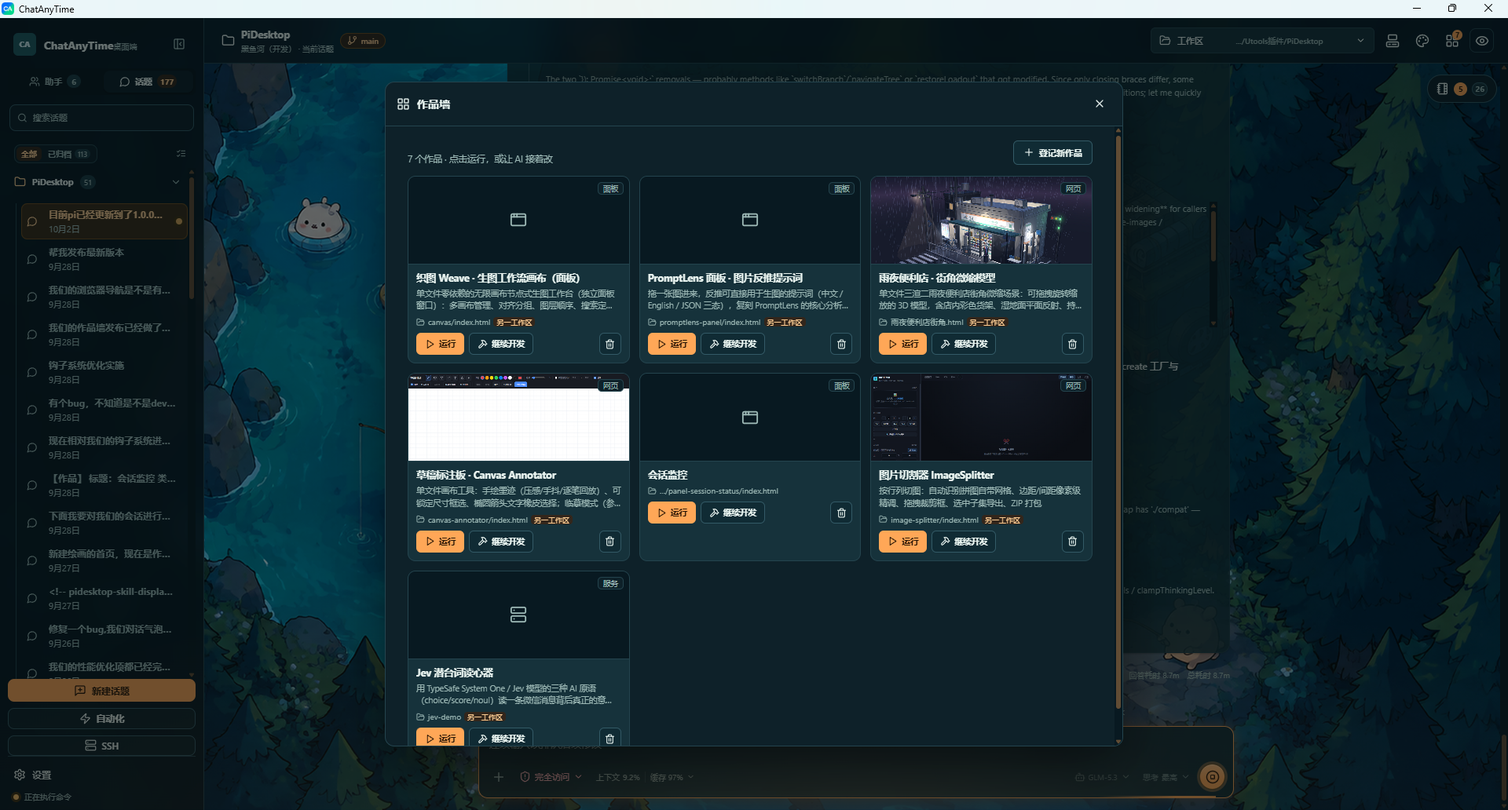
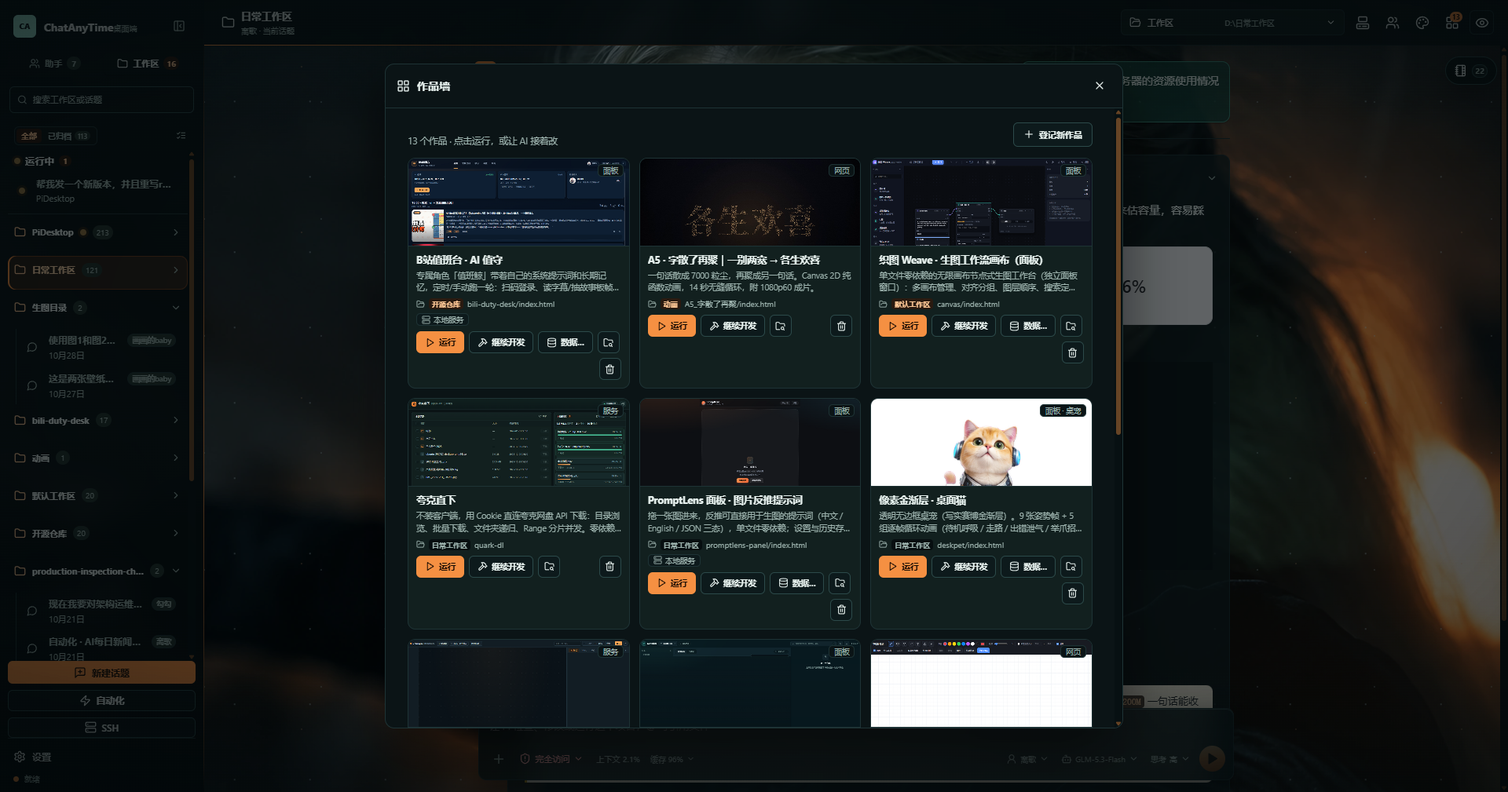
docs(readme): 重写 README 并换成 1.12.0 真机截图
- 结构重排：首屏主图 → 界面预览 → 快速开始 → 当前能力 → 架构 → 鉴权/权限 → 数据 → 主题 → 限制
- 事实校正：Pi 运行时 1.4.0、Electron 43、React 19；补工作区优先、运行中分区、Ctrl+K 两段式
  检索、团队/设计模式、电脑控制、Div 气泡视频与音频、作品封面、面板作品固定 origin 与数据
- 截图：用电脑控制操作正在运行的 dev 实例实拍五张（主界面 / 作品墙 / 能力管理 / 主题与外观 /
  SSH 远程），SSH 截图里的来源 IP 已做遮罩

diff --git a/README.md b/README.md
@@ -1,159 +1,181 @@
 # ChatAnyTime
 
-ChatAnyTime 是一个面向项目开发的桌面 AI 客户端。它以 Pi 的执行、会话和工具能力为底座，重新实现桌面交互，并延续 ChatAnyTime 的富内容渲染理念。
-<img width="1426" height="913" alt="image" src="https://github.com/user-attachments/assets/133b8181-4581-4807-be4f-769f7da0b379" />
+[![Release](https://img.shields.io/github/v/release/LuckyLXX/chat-anytime?label=release&color=f59042)](https://github.com/LuckyLXX/chat-anytime/releases/latest)
+[![Platform](https://img.shields.io/badge/platform-Windows%20x64-5f6b7a)](#安装)
+[![License](https://img.shields.io/github/license/LuckyLXX/chat-anytime?color=3f9a6b)](LICENSE)
+
+ChatAnyTime 是一个面向项目开发的桌面 AI 客户端。它以 Pi 的 Agent 运行时（模型、会话、工具、上下文管理）为底座，重新实现桌面交互，围绕「读代码 → 改文件 → 跑命令 → 验证 → 记录」这条真实开发回路设计界面：工具调用逐条可见、可中断，改动有 Diff 与回滚，做出来的成果能沉淀成作品或定时任务。
+
+![主界面](images/main-interface.png)
+
+> 侧栏按工作区组织话题，顶部「运行中」跨工作区汇总正在执行的会话；中间是带工具时间线与可交互卡片的对话；右侧可停靠预览面板（内置浏览器 / 终端 / SSH / 文件）。截图使用自定义主题「霜焰」，应用内可在 10 套内置预设与自己的 CSS 之间切换。
 
 ## 界面预览
 
-| SSH 远程面板 | 作品墙 |
+| 作品墙 | 能力管理 |
 | --- | --- |
-| ![SSH](images/ssh-connections.png) | ![作品墙](images/gallery-wall.png) |
-| 主机/分组管理 + 指纹信任、远端 PTY 终端、远端文件面板（SFTP 上传/下载） | AI 做出来的成果登记成「作品」，`file` / `server` / `panel` 三种形态，面板型作品可脱离主窗口常驻 |
+| ![作品墙](images/gallery-wall.png) | ![MCP 与技能](images/settings-capabilities.png) |
+| AI 做出来的成果登记成作品：`file` / `server` / `panel` 三种形态，每个作品都有封面，可一键运行或让 AI 接着改 | MCP 服务器（stdio / HTTP、OAuth、热生效）与技能清单；子智能体、命令、钩子与长期记忆也在同一处管理 |
+
+| 主题与外观 | SSH 远程 |
+| --- | --- |
+| ![主题与外观](images/appearance-themes.png) | ![SSH](images/ssh-connections.png) |
+| 明暗双模式语义变量、10 套预设、实时预览；也可导入整份 CSS 或主题目录（壁纸与字体随目录走） | 主机与分组、指纹信任、远端 PTY 终端，以及同一区域的远端文件面板（上传 / 下载 / 进度 / 取消） |
+
+## 快速开始
+
+### 安装
+
+从 [Releases](https://github.com/LuckyLXX/chat-anytime/releases/latest) 下载 `ChatAnyTime Setup <版本>.exe`（Windows x64），双击安装即可。
+
+- 建议先确认系统装有 **VC++ 2015-2022 x64 Redistributable**：缺它时终端、剪贴板相关功能会提示缺少 `VCRUNTIME140.dll`
+- 安装包由 GitHub Actions 在打 tag 时构建：干净 `npm ci` → `npm test` → `electron-builder` → 静态校验（`verify-package`），全绿才上传 Release
+- 尚无自动更新与代码签名，升级请手动下载新版本覆盖安装；用户数据在 `%APPDATA%\chat-anytime`，覆盖安装不受影响
+
+### 从源码运行
+
+需要 Node.js `>= 22.19.0`（Electron 43 自带的运行时满足 Pi 的要求）。
+
+```bash
+npm install
+npm run dev
+```
+
+测试与构建：
+
+```bash
+npm test        # vitest（约 280 个文件 / 3100+ 用例）
+npm run build   # 两套 tsc --noEmit + electron-vite build
+```
+
+打包（也可以交给 CI）：
+
+```bash
+npm run package:win         # dist/win-unpacked/ChatAnyTime.exe（需整目录一起分发）
+npm run package:installer   # dist/ChatAnyTime Setup <版本>.exe
+```
 
 ## 当前能力
 
-### 会话与工作区
+### 工作区与话题
 
-- 每个助手记住自己最后使用的工作区，另有「默认工作区」兜底，切助手/移除工作区都不会掉进空白页
-- 多会话并行：切走的会话在后台继续跑，侧栏以四色状态点提示「运行中 / 已完成 / 失败 / 已中止」，回到会话即清零
-- 话题管理：置顶、重命名、软归档（「全部 / 已归档」双屏）+ 多选批量归档/恢复/删除
-- 分屏：最多 4 格，每格有自己的输入框、草稿、模型与思考级别，拖动分隔条调比例，会话右键即可分屏
-- 轮次缩略导航与长会话窗口化：长对话只渲染视口附近的内容，滚动与切换仍然跟手
+- **工作区优先**：侧栏以工作区为主轴组织话题；每个助手记住自己最后用的工作区，另有「默认工作区」兜底，目录被删/移走的会话只读并在列表里标注
+- **运行中分区**：分组默认折叠，正在执行的会话会跨工作区汇总到侧栏顶部（分组标题另有运行点、侧栏按钮带计数），点一下就切过去
+- 多会话并行：切走的会话在后台继续跑，侧栏四色状态点提示「运行中 / 已完成 / 失败 / 已中止」，回到会话即清零
+- 话题管理：置顶、重命名、软归档（「全部 / 已归档」双屏）+ 多选批量归档 / 恢复 / 删除
+- 分屏：最多 4 格，每格独立的输入框、草稿、模型、思考级别与权限，拖动分隔条调比例
+- 命令面板（`Ctrl+K`）：搜索动作与最近工作区；输入任意文字后，列表最后一行的「搜索会话内容」进入两段式全文检索，回车直接定位到那条消息
+- 长会话：轮次缩略导航 + 视口窗口化渲染；输入框随内容自增高（到 240px 后改为内部滚动）
 
 ### 模型与 Agent
 
 - 配置多个 OpenAI 兼容中转站，拉取上游模型列表，并可逐个覆盖「是否支持图片输入」
 - 输入区快捷切换模型与思考级别；状态行实时显示上下文占用与流式 `~N tok/s`
 - Agent 角色：人格与系统提示词、技能勾选、内建工具开关；会话与长期记忆均按助手隔离
-- 子代理：`delegate_agent` 单层委派，内置「代码审查 / 项目探索 / 通用」三类角色（前两者只读），可自定义（系统提示/模型/工具集），执行过程在侧栏以嵌套事件流呈现
-- 图片识别兜底：对话模型不支持图片输入时，附件自动交给指定的多模态模型识别，模型也可以用 `recognize_images` 读工作区里的图片文件
+- 子代理：`delegate_agent` 单层委派，内置「代码审查 / 项目探索 / 通用」三类角色（前两者只读，通用可用内置浏览器验证页面），也可自定义系统提示、模型、思考等级与工具集；执行过程在侧栏以嵌套事件流呈现
+- 团队模式：给会话配上常驻成员，成员之间可以互发消息、共享任务板，顶栏进入团队看板与编队图
+- 设计模式：对话旁展开画布工作台，AI 用 `design_*` 工具维护设计文档（`.design.json`）并导出 HTML
+- 图片识别兜底：对话模型不支持图片输入时，附件自动交给指定的多模态模型识别；模型也能用 `recognize_images` 读工作区里的图片文件
 
 ### 工具与执行
 
-- Pi 原生工具（`read` / `bash` / `edit` / `write` / `grep` / `find` / `ls`，另有可选开启的 Windows 原生 `powershell`），全程流式展示参数、输出与文件 Diff
+- Pi 原生工具（`read` / `bash` / `edit` / `write` / `grep` / `find` / `ls`，另有可选开启的 Windows 原生 `powershell`），参数、输出与文件 Diff 全程流式展示
 - 可中断执行：任务面板里能单独停掉某条 shell 命令，进程树被清理但本轮回复继续
-- 代码模式（codemode）：一次调用里写一段沙箱脚本批量调用其它工具（并行读多文件、批量统计、大输出预筛），脚本内的工具调用同样走权限与审计
+- 代码模式（codemode）：一次调用里写一段沙箱脚本批量调用其它工具（并行读多文件、批量统计、大输出预筛），脚本内的工具调用同样走权限与审计；MCP 服务器的工具可选「直连 / 脚本」两种暴露方式，脚本模式不占每轮前缀
 - 权限四档：只读 / 每次询问 / 工作区访问 / 完全访问；「本会话允许」按 `工具:风险` 组合记忆，不会让普通写入授权顺带放开工作区外写入
-- 计划模式：先出计划、经你审批后实施，批准的计划留档 `docs/plans/`，也可以直接移交给新会话执行
+- 计划模式：先出计划、经你审批后实施，批准的计划留档 `docs/plans/`，也可以整体移交给新会话执行
 - Checkpoint 回滚：AI 每次写文件前即时快照，交付物行内一键恢复到回复前状态
-- 任务清单：`todo_write` 整表替换维护清单，右上角任务面板随会话切换，只读实时展示
+- 任务清单：`todo_write` 整表替换维护清单，右上角任务面板随会话切换、只读实时展示
+- 电脑控制：`computer_*` 枚举本机窗口、后台截图、点击（带命中与前台校验）与键盘输入，可以操作其它桌面应用
+- 自动化任务：cron 周期或一次性延时触发，可投递回当前会话、也可在后台新会话执行；任务可指定工作区，运行记录可回看
 
 ### 富内容与预览
 
 - 流式 Markdown / GFM / 代码高亮 / KaTeX / Mermaid，思考过程与工具调用分轮折叠
-- DIV 气泡：助手可以输出可交互的 HTML 卡片，在聊天窗口内直接渲染
-- HTML/SVG Artifact 在隔离 iframe 中预览；Markdown 预览带文档大纲、多标签与全屏
-- 附件：回形针、粘贴、拖拽添加图片或工作区文件；回复可一键分享为长图
+- 代码高亮认语言标注（`language-x` / `hljs-x` / 裸类名等，含别名归一），完全没标注时只做零误判兜底（`$ ` 提示符、`PS C:\`、可 `JSON.parse`、`@@` diff 等），散文与日志保持纯文本
+- **Div 气泡**：助手可以整条回答输出一页 HTML 卡片，在聊天窗口内直接渲染——按钮、Canvas、计时器、折叠都能用，脚本跑在受控作用域里；卡片内支持图片、`<video>` / `<audio>` 播放工作区里的 mp4 / webm / mp3（可拖动进度）
+- HTML/SVG Artifact 在无同源权限的 sandbox iframe 中预览；Markdown 预览带文档大纲、多标签与全屏；侧栏直接打开 HTML 也会注入 `base href`，相对图片与样式照常加载
+- 附件：回形针、粘贴、拖拽添加图片或工作区文件；回复可一键分享为长图（回复里有气泡时只截气泡）
 - 图片请求体积治理：入模型前按字节预算压缩历史图片并留占位符，避免撞上上游网关的请求体上限
 
-### 内置浏览器与终端
+### 内置浏览器、终端与 SSH
 
-- 完整的内置浏览器预览面板（标签页、地址栏、前进/后退/刷新、书签、人工下载「保存/另存为」决策）
-- 15 个 `browser_*` 自动化工具：导航 / 快照 / 点击 / 输入 / 按键 / 滚动 / 下拉 / 上传 / 求值 / 截图 / 整页截图 / 等待 / 取文本 / 标签页管理 / 页面图片直存工作区；`navigate` 与写模式 `eval` 走同一权限闸口，操作期间页面顶部有横幅提示
+- 预览面板里的完整浏览器：标签页、地址栏、前进/后退/刷新、书签、人工下载的「保存 / 另存为」决策；空闲标签会休眠回收
+- 15 个 `browser_*` 自动化工具（导航 / 快照 / 点击 / 输入 / 按键 / 滚动 / 下拉 / 上传 / 求值 / 截图 / 整页截图 / 等待 / 取文本 / 标签页管理 / 页面图片直存工作区）；`navigate` 与写模式 `eval` 走同一权限闸口，操作期间页面顶部有横幅提示
 - 手动元素选取：预览工具栏的准星进入选取模式，点击页面元素即把「来自内置浏览器」的上下文块填进输入框
+- Jev（TypeSafe）快速决策通路（可选开启）：只给一个目标，由外部模型逐步挑选操作与目标，工具侧只暴露观察 / 执行 / 重置三个原语，并带步数预算与敏感页面刹车
 - 终端面板：主进程 node-pty + xterm.js 的真实 shell，独立于 AI 的 `bash` 工具
-- SSH 面板：主机与分组管理、指纹信任、远端 PTY 终端，以及同一区域内的远端文件面板（浏览 / 上传 / 下载，带进度与取消）
+- SSH 面板：主机与分组管理、指纹信任（TOFU）、远端 PTY 终端，以及同一区域内的远端文件面板（浏览 / 上传 / 下载，带进度与取消）
 
-### 作品墙（Gallery）
+### 作品墙
 
-- 把 AI 做出来的成果登记成「作品」，随时一键运行或让 AI 接着改：`file`（单文件网页）、`server`（目录 + 启动命令，运行会真的起服务并等地址就绪）、`panel`（独立窗口，主界面关掉后仍常驻，页面可读本机执行状态）
-- **面板作品的数据跨启动保留**：面板页跑在由作品 id 决定的固定 origin 上（无端口），`localStorage` / `IndexedDB` 直接可用且按作品隔离；卡片上的「数据…」能看用量并清空，作品被删除时会一并清掉它的数据
-- 全局一份作品池（跨工作区不丢）、自动缩略图、标签与排序；入口在顶栏下拉、文件树右键、预览工具栏与空态页
+- 三种形态：`file`（单文件网页）、`server`（目录 + 启动命令，运行会真的起服务并等地址就绪）、`panel`（独立小窗口，主界面关掉后仍常驻，页面可读本机执行状态并能通过 `POST` 唤回主界面 / 关窗 / 切换抽屉）
+- **每个作品都有封面**：显式指定 → 入口本身就是图片 → 入口页 / 服务页离屏截图 → 程序化占位，四档依次兜底
+- **面板作品的数据跨启动保留**：页面跑在由作品 id 决定的固定 origin 上（无端口），`localStorage` / `IndexedDB` 直接可用且按作品隔离；卡片上的「数据…」能看用量并清空，作品被删除时一并清掉
+- 全局一份作品池（跨工作区不丢）、自动缩略图、标签与排序；「继续开发」跨工作区时会先在该作品的工作区新建一个干净话题，再把作品块写进输入框
+- 入口在顶栏下拉、文件树右键、预览工具栏与空态页；仓库里的 `works/git-manager` 就是一个面板作品示例（只读浏览本地 Git 仓库）
 
 ### 主题与外观
 
-- 明暗双模式语义变量换肤；密度、圆角、气泡/面板/壁纸透明度运行时调节，实时预览
-- 10 套内置预设主题，另可导入 CSS 或整个主题目录（图片/字体随目录走，落盘为真实文件并走内部协议读取）
+- 明暗双模式语义变量换肤；密度、圆角、气泡 / 面板 / 壁纸透明度运行时调节，实时预览
+- 10 套内置预设，另可导入 CSS 或整个主题目录（图片 / 字体随目录走，落盘为真实文件并经内部协议读取）
 - 稳定的结构契约：`data-pane` / `data-control` / `data-role` / `data-ui-*` 状态与 `--pi-layer-*` 装饰层，主题可以重设计面板、按钮与整屏氛围而不碰 DOM 结构
 - 随包内置「PiDesktop 主题创建器」技能与确定性校验器（变量覆盖度 / 对比度 / 钩子名 / 可移植性），见 [`docs/theme-guide.md`](docs/theme-guide.md)
 
-### 能力管理
+### 能力管理（设置页）
 
-- **MCP Server**：stdio / HTTP 双传输（基于 Pi 内置 MCP 扩展），HTTP 可配自定义请求头（Authorization / X-API-Key 等，与 Claude Code / Cursor 的 `.mcp.json` 同字段，值支持 `${环境变量}` 引用），OAuth 授权（支持预注册客户端、回调地址、授权范围等高级选项；凭据持久化与自动刷新），每服务器可配超时，状态与工具数实时显示；**新增 / 替换 / 删除 / 启停全部热生效**，无需重建会话
-- **技能 Skill**：四档来源，优先级从低到高为 共享目录 `~/.agents/skills` < 随包内置 < 用户全局 `pidesktop-skills/` < 项目 `.pidesktop-skills/`，同名后者覆盖前者；勾选启用后注入系统提示，用 `/skill:<name>` 调用；内置电脑控制、自动化任务、网页任务、作品发布、ChatAnyTime 配置、主题创建器
-- **自定义命令**：项目/全局双作用域的 `md` 模板，`/名字 参数` 直接调用
-- **子智能体**：设置页自定义系统提示、模型、思考等级与工具集（全局/项目作用域），内置「代码审查 / 项目探索」为只读、内置通用实施者可用内置浏览器验证页面（browser_* 能力可按定义开关）、可在设置里单独改执行模型与思考等级（委派卡片上显示实际生效档位）
-- **钩子 Hooks**：9 类事件（会话开始/结束、工具调用前/后、工具结果、用户输入、轮次结束、回复结束、压缩前）驱动桌面通知、HTTP 回调、命令执行或阻断拦截，规则可单条试跑
-- **长期记忆**：按助手隔离的 markdown 主题库，跨会话检索，记忆面板可治理
-- **自动化任务**：cron 定时任务后台无人值守运行，运行记录可回看
+- **MCP Server**：stdio / HTTP 双传输，HTTP 可配自定义请求头（Authorization / X-API-Key 等，值支持 `${环境变量}`），OAuth 授权（支持预注册客户端、回调地址、授权范围）与凭据自动刷新，每服务器可配超时；增删改与启停**热生效**，不用重建会话
+- **技能 Skill**：四档来源，优先级从低到高为 共享目录 `~/.agents/skills` < 随包内置 < 用户全局 `pidesktop-skills/` < 项目 `.pidesktop-skills/`，同名后者覆盖前者；勾选启用后注入系统提示，用 `/skill:<name>` 调用；内置电脑控制、网页任务、自动化任务、作品发布、配置助手与主题创建器
+- **自定义命令**：项目 / 全局双作用域的 Markdown 模板，`/名字 参数` 直接调用
+- **子智能体**：自定义系统提示、模型、思考等级与工具集（全局 / 项目作用域），内置「代码审查 / 项目探索」只读，内置通用实施者可按定义开关 `browser_*` 能力
+- **钩子 Hooks**：9 类事件（会话开始 / 结束、工具调用前 / 后、工具结果、用户输入、轮次结束、回复结束、压缩前）驱动桌面通知、HTTP 回调、命令执行或阻断拦截，规则可单条试跑
+- **长期记忆**：按助手隔离的 markdown 主题库，跨会话检索；v3 起按预算索引、分节读写，检索用 BM25，面板按需加载
 - **用量统计**：按助手统计 token 与花费
-
-## 安装
-
-从 [Releases](https://github.com/LuckyLXX/chat-anytime/releases/latest) 下载 `ChatAnyTime Setup <版本>.exe` 安装包，双击安装即可（Windows x64）。
-
-- 首次运行建议确认已安装 **VC++ 2015-2022 x64 Redistributable**（部分系统缺少它时，终端/剪贴板相关功能会提示缺少 `VCRUNTIME140.dll`）
-- 安装包由 GitHub Actions 在打 tag 时自动构建并上传，构建过程在 CI 上可复现（`npm ci` 干净安装 + `npm test` + `verify-package` 校验）
 
 ## 架构
 
 ```text
 Electron main
-├── 窗口、目录选择和设置持久化
-├── Renderer IPC
+├── 窗口、设置持久化、权限闸口、工具审计
+├── 预览面板原生视图（内置浏览器 / 终端 / 文件）与协议处理
 └── Pi Runtime utilityProcess 生命周期
 
 Pi Runtime utility process
-├── @earendil-works/pi-coding-agent 1.0.0
-├── AgentSession / SessionManager / ModelRuntime
-├── Pi 原生项目工具
-├── 权限扩展
+├── @earendil-works/pi-coding-agent 1.4.0（AgentSession / SessionManager / ModelRuntime）
+├── Pi 原生项目工具 + 权限扩展 + 工具审计
+├── MCP 桥接 / 用户钩子 / 计划模式注入 / Checkpoint 快照
 └── 稳定的 RuntimeMessage / RuntimeSnapshot 输出
 
-React renderer
-├── 项目、会话和模型界面
-├── 消息流与工具时间线
-├── Activity / Changes 面板
-└── 富内容与 Artifact 渲染
+React renderer（React 19 + electron-vite）
+├── 工作区、话题、模型与权限界面
+├── 消息流、工具时间线、Div 气泡与 Artifact 渲染
+└── 预览面板（内置浏览器 / 终端 / SSH / 文件 / Markdown）
 ```
 
-主进程与 React 界面之间的稳定协议位于 `src/shared/protocol.ts`。React 不直接依赖 Pi 的运行时对象，因此后续升级 Pi 或替换桌面壳时，不需要同时重写渲染层。
-
-## 环境与启动
-
-依赖安装要求 Node.js `>=22.19.0`。Electron 43 自带的 Node 运行时满足 Pi `1.0.0` 的运行要求。
-
-```powershell
-npm install
-npm run dev
-```
-
-构建和测试：
-
-```powershell
-npm test
-npm run build
-```
-
-生成可直接运行的 Windows 目录，或直接生成安装包：
-
-```powershell
-npm run package:win         # dist\win-unpacked\ChatAnyTime.exe
-npm run package:installer   # dist\ChatAnyTime Setup <版本>.exe
-```
+主进程与 React 界面之间的稳定协议位于 `src/shared/protocol.ts`。渲染端不直接依赖 Pi 的运行时对象，因此升级 Pi 或替换桌面壳时不需要同时重写渲染层。
 
 ## 模型鉴权
 
-应用通过 Pi 的 `ModelRuntime` 读取 Pi 已支持的 Provider 和现有鉴权来源。API Key 由主进程使用 Electron `safeStorage` 加密到 `userData/credentials.json`，应用启动时解密后仅注入 Pi 运行进程；界面只显示“已配置”，不会回显密钥内容。首次启动时会迁移旧版 `customProviderApiKey`，加密校验失败则保留旧数据并只在内存中使用。
+应用通过 Pi 的 `ModelRuntime` 读取 Pi 已支持的 Provider 和现有鉴权来源。API Key 由主进程用 Electron `safeStorage` 加密写入 `userData/credentials.json`，启动时解密后仅注入 Pi 运行进程；界面只显示「已配置」，不会回显密钥内容。首次启动会迁移旧版 `customProviderApiKey`，加密校验失败则保留旧数据并只在内存中使用。
 
-自定义中转站使用 OpenAI Chat Completions 兼容协议，接口地址填写 API 根地址，例如 `https://proxy.example.com/v1`，不要填写具体的 `/chat/completions` 路径。重新打开设置时，API Key 留空即可继续使用已保存的密钥。
+自定义中转站使用 OpenAI Chat Completions 兼容协议，接口地址填 API 根地址（例如 `https://proxy.example.com/v1`），不要填 `/chat/completions` 具体路径。重新打开设置时 API Key 留空即可继续使用已保存的密钥。
 
 ## 权限模型
 
-- `bash`：每个命令作用域需要确认
-- `edit` / `write`：写入工作区内文件时需要确认
-- 工作区外路径：所有工具都需要单独确认
+- 只读工具（`read` / `grep` / `find` / `ls` / 窗口枚举 / 截图等）直接放行
+- `bash`：每个命令作用域需要确认；`edit` / `write`（含设计文档与作品发布）写入工作区内文件时需要确认
+- 统一按风险轴收口（`read` / `command` / `write` / `browse` / `desktop` / `ssh`）：工作区外路径、浏览器导航与写模式求值、桌面键鼠注入、SSH 操作各自成轴
+- 桌面控制与 SSH 是比命令执行更直接的风险面：只读模式拒绝，询问模式逐次确认
 - `Allow for session` 仅授权相同的 `tool:risk` 组合，不会让普通写入授权自动覆盖工作区外写入
-- HTML/SVG Artifact 在无同源权限的 sandbox iframe 中运行，无法直接访问桌面 API
-- 浏览器自动化：`browser_navigate` 与写模式的 `browser_eval` 携带 `browse` 风险走同一权限闸口；其余页面内操作视为可信
-- 用户钩子的 `command` 动作是用户自写的终端级信任配置，绕过 AI 权限闸口执行（超时与进程树清理受控），上下文只经 stdin/环境变量进入
+- HTML/SVG Artifact 与 Div 气泡的脚本都在受限作用域内运行，拿不到桌面 API
+- 钩子的 `command` 动作是用户自写的终端级信任配置，会绕过 AI 权限闸口执行（超时与进程树清理受控），上下文只经 stdin / 环境变量进入
 
-## 数据存放位置
+## 数据与配置
 
 | 位置 | 内容 |
 | --- | --- |
 | `%APPDATA%\chat-anytime\` | `settings.json`（设置，含主题定义与工作区记忆）、`credentials.json`（`safeStorage` 加密的密钥） |
-| `~/.pi/agent/` | 会话 JSONL、任务清单、计划/设计模式开关、Checkpoint 快照、工具审计日志、长期记忆、作品墙、主题资产文件、MCP/技能/命令/钩子/子智能体配置 |
+| `~/.pi/agent/` | 会话 JSONL、任务清单、计划 / 设计模式开关、Checkpoint 快照、工具审计日志、长期记忆、作品墙、主题资产文件、MCP / 技能 / 命令 / 钩子 / 子智能体配置 |
 | `<工作区>\` | `docs/plans/`（批准的计划留档）、`designs/`、`.pidesktop/`（截图、下载、求值产物） |
 
 设置文件由应用整体重写，请勿手工编辑；需要改动请在设置页操作。
@@ -168,11 +190,11 @@ npm run package:installer   # dist\ChatAnyTime Setup <版本>.exe
 | 钩子 Hooks | `pidesktop-hooks.json` | `.pidesktop-hooks.json` |
 | 子智能体 | `pidesktop-subagents.json` | `.pidesktop-subagents.json` |
 
-> 技能与命令正文是热生效的（每次读取取实物），但新增/删除技能与命令、以及钩子 / 子智能体的任何改动，都需要重载资源或重启应用。MCP 例外：在设置页里增删改服务器是即时生效的，只有直接改 `mcp.json` 文件才需要重载。
+> 技能与命令正文是热生效的（每次读取取实物），但新增 / 删除技能与命令、以及钩子 / 子智能体的任何改动，都需要重载资源或重启应用。MCP 例外：在设置页里增删改服务器是即时生效的，只有直接改 `mcp.json` 文件才需要重载。
 
 ## 主题
 
-主题是一份 CSS（可选：同目录图片/字体资产），导入方式为「设置 → 外观 → 导入 CSS / 导入主题目录」。仓库 [`themes/`](themes/) 里备了两套可直接导入的示例主题：
+主题是一份 CSS（可选：同目录图片 / 字体资产），导入方式为「设置 → 外观 → 导入 CSS / 导入主题目录」。仓库 [`themes/`](themes/) 里备了两套可直接导入的示例主题：
 
 | 主题 | 风格 |
 | --- | --- |
@@ -183,19 +205,21 @@ npm run package:installer   # dist\ChatAnyTime Setup <版本>.exe
 
 ## 与 Pi 及原插件的关系
 
-- Pi `1.0.0` 仅作为 Agent 运行时核心使用：模型、AgentSession、会话持久化、上下文管理、内置工具（read/bash/edit/write/grep/find/ls）
-- 已移除 Pi 的「扩展接入」能力（第三方扩展加载/批准/绑定、`pi-mcp-adapter`、子代理 CLI shim、扩展 UI 桥），只保留应用自有的内联扩展：权限闸口、工具审计、用户钩子、计划模式注入、Checkpoint 快照、MCP 桥接（与 Pi 自带的 MCP 扩展工厂配对）
-- Skill、子代理、Todo、记忆为自研实现：Skill 通过扫描 `SKILL.md` 目录并注入系统提示；子代理用 `delegate_agent` 创建同进程子会话；Todo 与记忆用本地文件存储。**MCP 自 2026-10-15 起改用 Pi 的内置 MCP 扩展**（连接/OAuth/工具注册/lazy 重连全部由它负责，应用只负责配置翻译、注册编排与状态桥接；服务器增删改经 `registerMcpServer`/`unregisterMcpServer` 热生效）
+- Pi `1.4.0` 仅作为 Agent 运行时核心使用：模型、AgentSession、会话持久化、上下文管理、内置工具（read / bash / edit / write / grep / find / ls）
+- 已移除 Pi 的「扩展接入」能力（第三方扩展加载 / 批准 / 绑定、`pi-mcp-adapter`、子代理 CLI shim、扩展 UI 桥），只保留应用自有的内联扩展：权限闸口、工具审计、用户钩子、计划模式注入、Checkpoint 快照、MCP 桥接（与 Pi 自带的 MCP 扩展工厂配对）
+- Skill、子代理、Todo、记忆为自研实现：Skill 通过扫描 `SKILL.md` 目录并注入系统提示；子代理用 `delegate_agent` 创建同进程子会话；Todo 与记忆用本地文件存储。**MCP 自 2026-10-15 起改用 Pi 的内置 MCP 扩展**（连接 / OAuth / 工具注册 / lazy 重连由它负责，应用只负责配置翻译、注册编排与状态桥接）
 - 本项目沿用 ChatAnyTime 品牌与核心渲染、交互理念，没有复制原插件运行时或旧代码
 - Pi 原仓库和 ChatAnyTime 原插件仓库均不属于本项目，也不会被本项目构建修改
 
 ## 当前限制
 
-- 暂不支持 Git 工作树管理
-- MCP 服务器子进程在应用退出（utility 进程被终止）时未做优雅关闭，极少数情况下可能残留；会话关闭/切换时会先注销 MCP 服务器并关闭连接（不再泄漏）
+- 暂不支持 Git 工作树管理；仓库里的 Git 管理器面板示例（`works/git-manager`，作品形态）提供只读浏览：提交历史与泳道图、补丁、工作区状态、分支与标签
+- 团队模式为 MVP：成员在同进程内协作（消息 + 共享任务板），还没有跨机器或进程隔离
+- MCP 服务器子进程在应用退出（utility 进程被终止）时未做优雅关闭，极少数情况下可能残留；会话关闭 / 切换时会先注销 MCP 服务器并关闭连接
 - HTML/SVG Artifact 只提供隔离预览，不提供桌面能力桥接（需要常驻与本地状态的作品请用「面板」形态）
+- 面板作品的数据由 Chromium profile 承载，删除作品即清空，无法导出
 - 尚未提供自动更新与代码签名，升级需要手动下载安装包
-- 尚无主题/壁纸在应用内的可视化编辑器，结构主题请交给内置的主题创建器技能
+- 尚无主题 / 壁纸在应用内的可视化编辑器，结构主题请交给内置的主题创建器技能
 - `npm audit --omit=dev` 会报告 5 项关联风险（`hono` / `qs` / `fast-uri` / `ip-address` 来自内置 `@modelcontextprotocol/sdk` 的传递依赖，`brace-expansion` 来自 Pi 运行时的 `minimatch` 依赖链），均可由上游发版或 `npm audit fix` 处理
 - 图片请求体积治理按「上游网关 8MB 请求体」校准；换成更小上限的网关需要同步调整预算常量
 
